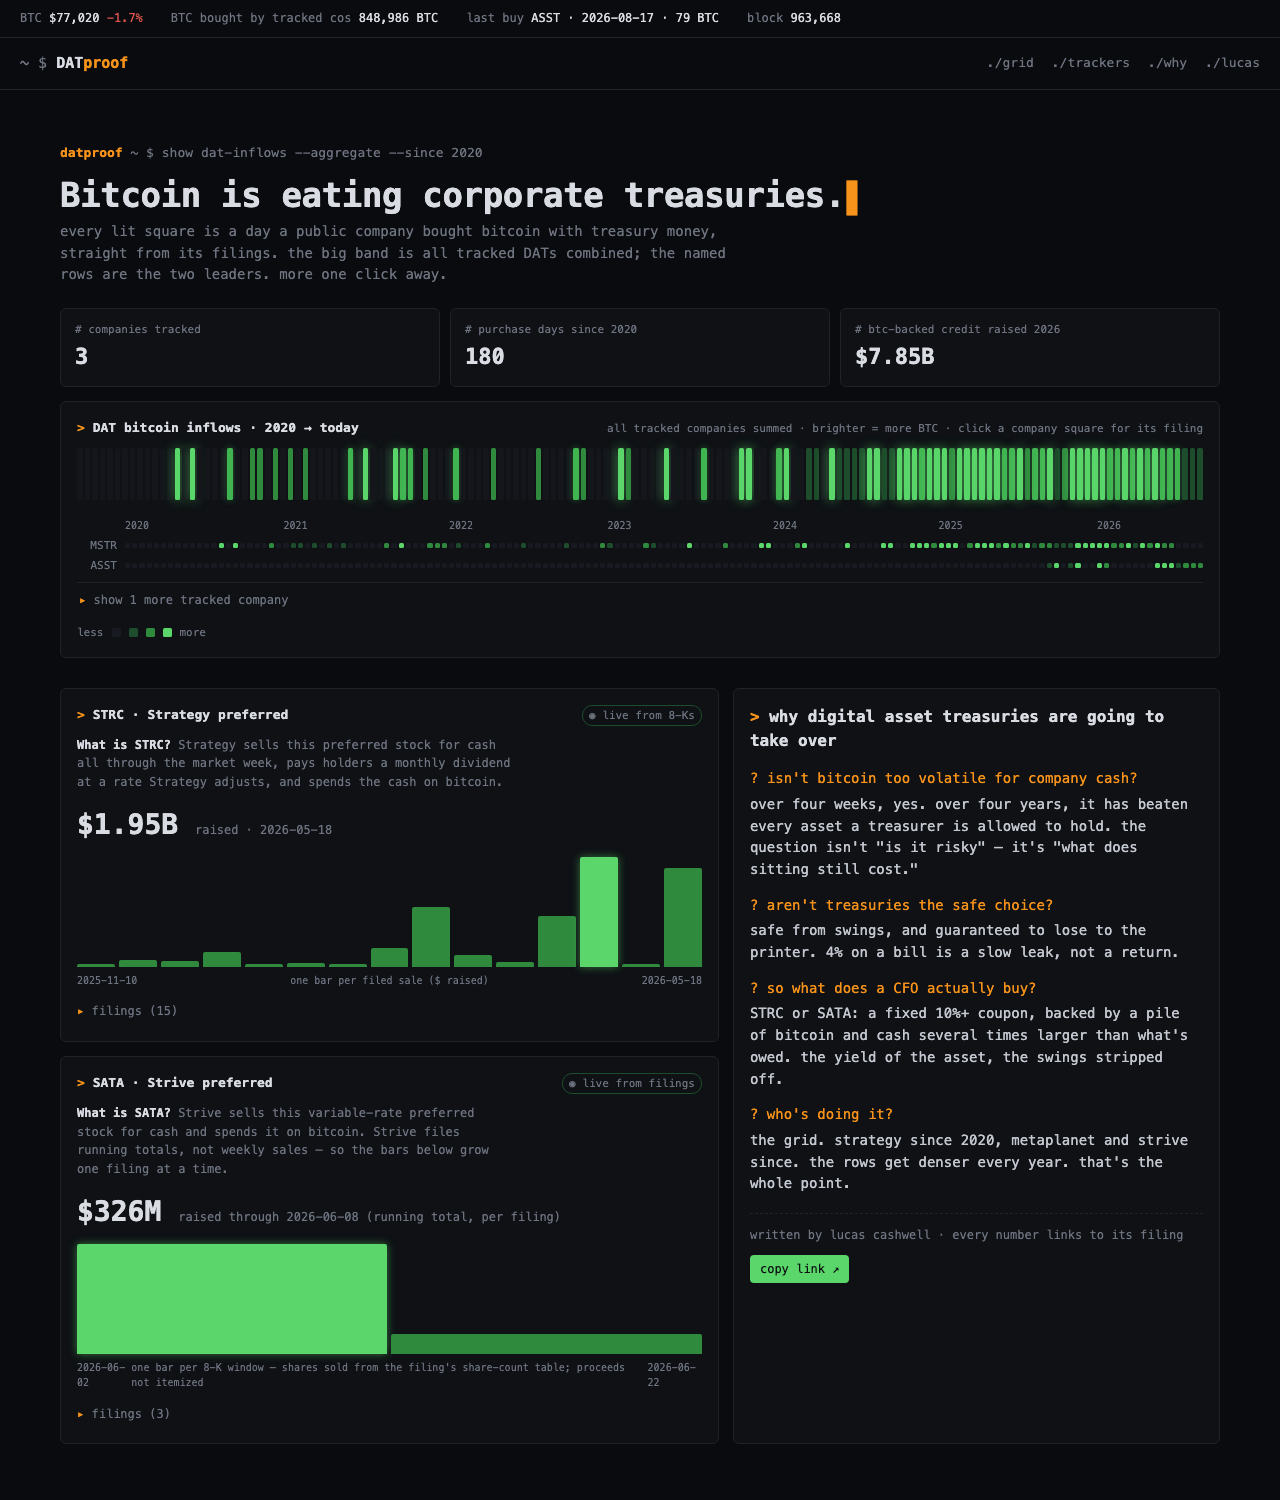
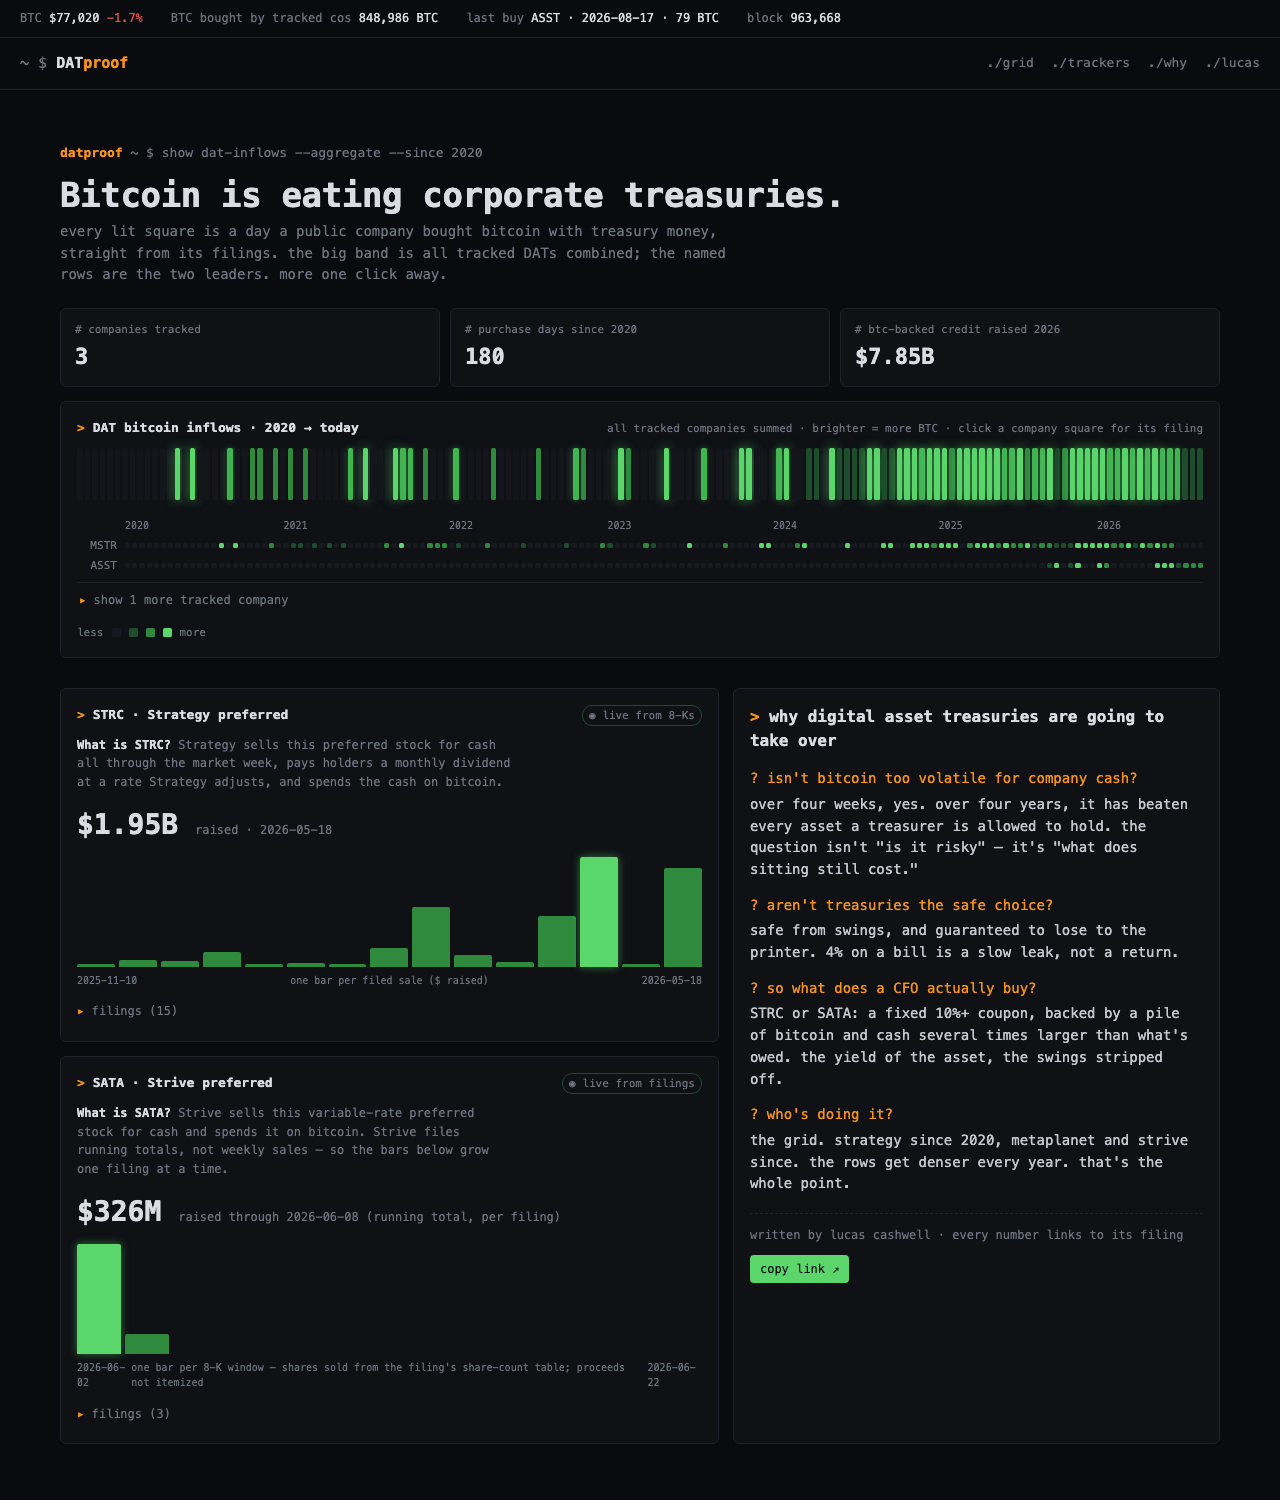
cap tracker bar width

Changed region(s): [[0.0938, 0.828, 0.5625, 0.92], [0.6562, 0.1227, 0.6875, 0.1533]]

diff --git a/site/index.html b/site/index.html
@@ -134,7 +134,7 @@ for(const k of ['STRC','SATA']){const S=D.books[k],el=document.getElementById('t
  const v=r=>byUsd?r.usd:r.units, mx=Math.max(...bars.map(v)), last=S[S.length-1];
  const cumRow=[...S].reverse().find(r=>r.cum&&r.usd!=null), latest$=cumRow||[...S].reverse().find(r=>r.usd!=null);
  el.innerHTML=`<div class="big">${latest$?usd(latest$.usd):'—'} <small>${latest$&&latest$.cum?'raised through '+latest$.date+' (running total, per filing)':latest$?'raised · '+latest$.date:''}</small></div>
- <div class="bars" style="grid-template-columns:repeat(${bars.length},1fr)">${bars.map(r=>`<a href="${r.url}" target="_blank" rel="noopener" class="${v(r)===mx?'hot':''}" style="height:${Math.max(3,v(r)/mx*100)}%" title="${r.date} · ${byUsd?usd(r.usd):fmt(r.units)+' shares'}"></a>`).join('')}</div>
+ <div class="bars" style="grid-template-columns:repeat(${bars.length},minmax(0,44px))">${bars.map(r=>`<a href="${r.url}" target="_blank" rel="noopener" class="${v(r)===mx?'hot':''}" style="height:${Math.max(3,v(r)/mx*100)}%" title="${r.date} · ${byUsd?usd(r.usd):fmt(r.units)+' shares'}"></a>`).join('')}</div>
  <div class="lab"><span>${bars[0].date}</span><span>${byUsd?'one bar per filed sale ($ raised)':'one bar per 8-K window — shares sold from the filing\'s share-count table; proceeds not itemized'}</span><span>${bars[bars.length-1].date}</span></div>
  <details><summary>filings (${S.length})</summary><div class="rc">${[...S].reverse().map(r=>`<div class="r"><span class="dim">${r.date}</span><span>${r.units?'sold '+fmt(r.units)+' shares':'sale'}${r.cum?' <em>running total</em>':''}${r.window?' <em>share-count table</em>':''}</span><span class="amt">${r.usd!=null?usd(r.usd):'—'}</span><a href="${r.url}" target="_blank" rel="noopener">filing →</a></div>`).join('')}</div></details>`}
 document.getElementById('share').onclick=e=>{navigator.clipboard.writeText(location.href).then(()=>e.target.textContent='copied ✓')};

diff --git a/site/template.html b/site/template.html
@@ -134,7 +134,7 @@ for(const k of ['STRC','SATA']){const S=D.books[k],el=document.getElementById('t
  const v=r=>byUsd?r.usd:r.units, mx=Math.max(...bars.map(v)), last=S[S.length-1];
  const cumRow=[...S].reverse().find(r=>r.cum&&r.usd!=null), latest$=cumRow||[...S].reverse().find(r=>r.usd!=null);
  el.innerHTML=`<div class="big">${latest$?usd(latest$.usd):'—'} <small>${latest$&&latest$.cum?'raised through '+latest$.date+' (running total, per filing)':latest$?'raised · '+latest$.date:''}</small></div>
- <div class="bars" style="grid-template-columns:repeat(${bars.length},1fr)">${bars.map(r=>`<a href="${r.url}" target="_blank" rel="noopener" class="${v(r)===mx?'hot':''}" style="height:${Math.max(3,v(r)/mx*100)}%" title="${r.date} · ${byUsd?usd(r.usd):fmt(r.units)+' shares'}"></a>`).join('')}</div>
+ <div class="bars" style="grid-template-columns:repeat(${bars.length},minmax(0,44px))">${bars.map(r=>`<a href="${r.url}" target="_blank" rel="noopener" class="${v(r)===mx?'hot':''}" style="height:${Math.max(3,v(r)/mx*100)}%" title="${r.date} · ${byUsd?usd(r.usd):fmt(r.units)+' shares'}"></a>`).join('')}</div>
  <div class="lab"><span>${bars[0].date}</span><span>${byUsd?'one bar per filed sale ($ raised)':'one bar per 8-K window — shares sold from the filing\'s share-count table; proceeds not itemized'}</span><span>${bars[bars.length-1].date}</span></div>
  <details><summary>filings (${S.length})</summary><div class="rc">${[...S].reverse().map(r=>`<div class="r"><span class="dim">${r.date}</span><span>${r.units?'sold '+fmt(r.units)+' shares':'sale'}${r.cum?' <em>running total</em>':''}${r.window?' <em>share-count table</em>':''}</span><span class="amt">${r.usd!=null?usd(r.usd):'—'}</span><a href="${r.url}" target="_blank" rel="noopener">filing →</a></div>`).join('')}</div></details>`}
 document.getElementById('share').onclick=e=>{navigator.clipboard.writeText(location.href).then(()=>e.target.textContent='copied ✓')};
